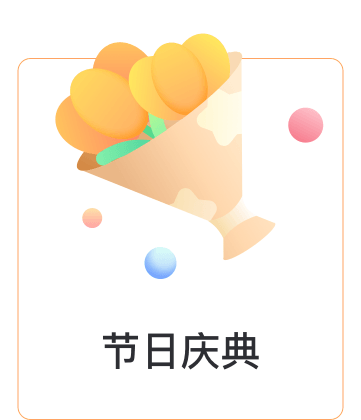
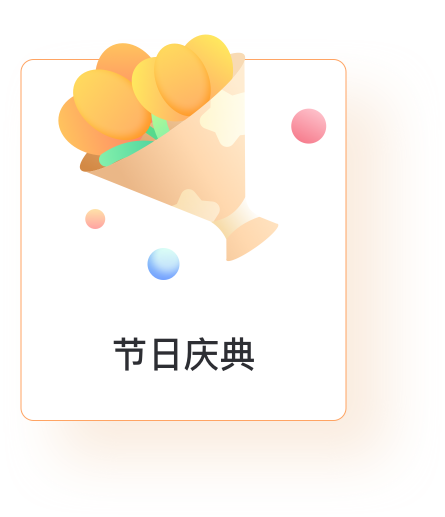
过渡

diff --git a/src/assets/css/shoppingMall/shoppingMall_home.scss b/src/assets/css/shoppingMall/shoppingMall_home.scss
@@ -268,14 +268,14 @@
     min-height: 36px;
     text-align: center;
     > div {
-      width: rpx2multiple(300);
-      height: rpx2multiple(378);
+      width: rpx2multiple(445);
+      height: rpx2multiple(517);
     }
     .jrqd {
       background: url('../../assets/img/slices/jrqd.png') no-repeat center center;
       background-size: 100% 100%;
       &:hover {
-        // transition: all 0.5s ease-in-out;
+        transition: all 0.5s ease-in-out;
         background: url('../../assets/img/slices/jrqd-hover.png') no-repeat center center;
         background-size: 100% 100%;
 
@@ -285,7 +285,7 @@
       background: url('../../assets/img/slices/ygfl.png') no-repeat center center;
       background-size: 100% 100%;
       &:hover {
-        // transition: all 0.5s ease-in-out;
+        transition: all 0.5s ease-in-out;
         background: url('../../assets/img/slices/ygfl-hover.png') no-repeat center center;
         background-size: 100% 100%;
 
@@ -295,7 +295,7 @@
       background: url('../../assets/img/slices/ip.png') no-repeat center center;
       background-size: 100% 100%;
       &:hover {
-        // transition: all 0.5s ease-in-out;
+        transition: all 0.5s ease-in-out;
         background: url('../../assets/img/slices/ip-hover.png') no-repeat center center;
         background-size: 100% 100%;
 
@@ -305,7 +305,7 @@
       background: url('../../assets/img/slices/hdwz (2).png') no-repeat center center;
       background-size: 100% 100%;
       &:hover {
-        // transition: all 0.5s ease-in-out;
+        transition: all 0.5s ease-in-out;
         background: url('../../assets/img/slices/hdwz-hover.png') no-repeat center center;
         background-size: 100% 100%;
 
@@ -315,7 +315,7 @@
       background: url('../../assets/img/slices/qyzb.png') no-repeat center center;
       background-size: 100% 100%;
       &:hover {
-        // transition: all 0.5s ease-in-out;
+        transition: all 0.5s ease-in-out;
         background: url('../../assets/img/slices/qyzb-hover.png') no-repeat center center;
         background-size: 100% 100%;
 
@@ -325,7 +325,7 @@
       background: url('../../assets/img/slices/icon-ry.png') no-repeat center center;
       background-size: 100% 100%;
       &:hover {
-        // transition: all 0.5s ease-in-out;
+        transition: all 0.5s ease-in-out;
         background: url('../../assets/img/slices/icon-ry-1.png') no-repeat center center;
         background-size: 100% 100%;
 
@@ -335,7 +335,7 @@
       background: url('../../assets/img/slices/swlz.png') no-repeat center center;
       background-size: 100% 100%;
       &:hover {
-        // transition: all 0.5s ease-in-out;
+        transition: all 0.5s ease-in-out;
         background: url('../../assets/img/slices/swlz-hover.png') no-repeat center center;
         background-size: 100% 100%;
 
@@ -345,7 +345,7 @@
       background: url('../../assets/img/slices/jgfq.png') no-repeat center center;
       background-size: 100% 100%;
       &:hover {
-        // transition: all 0.5s ease-in-out;
+        transition: all 0.5s ease-in-out;
         background: url('../../assets/img/slices/jgfq-hover.png') no-repeat center center;
         background-size: 100% 100%;
 
